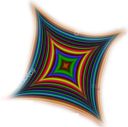
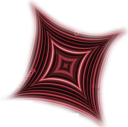
Level 1 & sps works
-added send_char function to SpriteNode
-good classes names in tests
-rhombus is red
-step of SpriteScheduler is now pure side-effects

diff --git a/engine/tests/test_hitbox.py b/engine/tests/test_hitbox.py
@@ -21,14 +21,14 @@ from hypothesis.strategies import integers, lists
 def test_hitbox1():
     T = Transformable()
     R = Rect(-1,-1,2,2)
-    Hb = HitBox(R)
+    Hb = Hitbox(R)
     Hb.link(T)
     T.translate(Vector(2,0))
     assert Hb.get_ctrbl().get_position() == Vector(2,0)
     assert Hb.get_self_poly() == Polygon([Vector(-1,-1),Vector(1,-1),Vector(1,1),Vector(-1,1)])
     assert Hb.get_world_poly() == Polygon([Vector(1,-1),Vector(3,-1),Vector(3,1),Vector(1,1)])
     R = Rect(-1,-1,2,2)
-    Hb = HitBox(R)
+    Hb = Hitbox(R)
     Hb.link(T)
     T.rotate(np.pi/2)
     assert T.get_position() == Vector(2,0)
@@ -44,8 +44,8 @@ def test_hitbox2():
     T2 = Transformable()
     R1 = Rect(-1,-1,2,2)
     R2 = Rect(-1,-1,2,2)
-    Hb1 = HitBox(R1)
-    Hb2 = HitBox(R2)
+    Hb1 = Hitbox(R1)
+    Hb2 = Hitbox(R2)
     Hb1.link(T1)
     Hb2.link(T2)
     T1.translate(Vector(0.5,0.5))
@@ -80,8 +80,8 @@ def test_hitbox3():
         T2 = Transformable()
         R1 = Rect(-1,-1,2,2)
         R2 = Rect(-1,-1,2,2)
-        Hb1 = HitBox(R1)
-        Hb2 = HitBox(R2)
+        Hb1 = Hitbox(R1)
+        Hb2 = Hitbox(R2)
         Hb1.link(T1)
         Hb2.link(T2)
         T2.rotate(np.pi/a)
@@ -99,8 +99,8 @@ def test_hitbox4():
         T2 = Transformable()
         R1 = Rect(-1,-1,2,2)
         R2 = Rect(-1,-1,2,2)
-        Hb1 = HitBox(R1)
-        Hb2 = HitBox(R2)
+        Hb1 = Hitbox(R1)
+        Hb2 = Hitbox(R2)
         Hb1.link(T1)
         Hb2.link(T2)
         T2.rotate(np.pi/a)
@@ -116,8 +116,8 @@ def test_hitbox5():
         T2 = Transformable()
         R1 = Rect(-1,-1,2,2)
         R2 = Rect(-1,-1,2,2)
-        Hb1 = HitBox(R1)
-        Hb2 = HitBox(R2)
+        Hb1 = Hitbox(R1)
+        Hb2 = Hitbox(R2)
         Hb1.link(T1)
         Hb2.link(T2)
         T1.translate(Vector(1,-0.5))

diff --git a/engine/spriteNode.py b/engine/spriteNode.py
@@ -27,6 +27,11 @@ class SpriteNode(Node):
         """ returns the spriteScheduler associated with the spriteNode"""
         return self.__sps
 
+    def send_char(self,char):
+        """ Sends some character of information to the SpriteScheduler """
+        self.__sps.step(char)
+
+
     def set_state(self,state):
         self.__state = state
 
@@ -57,13 +62,15 @@ class SpriteNode(Node):
                 img = pygame.image.load(s).convert_alpha()
             image_dim = Vector(img.get_width(),img.get_height())
             dist = scale.transform_vect(image_dim)
-            img = pygame.transform.smoothscale(img,dist)
+            x,y = dist.to_tuple()
+
+            img = pygame.transform.smoothscale(img,(int(x),int(y)))
             pos = self.get_position()
             #print("-------1",pos,trans)
             pos = pos.apply_transform(scale)
             pos = pos.apply_transform(trans)
             #print("-------2",pos)
-            fen.blit(img,(pos.x ,vpos.y ))
+            fen.blit(img,(pos.x ,pos.y ))
         else:
             pos_vect = self.get_pos_camera(distorsion)
             pygame.draw.polygon(fen,(0,255,0),pos_vect.to_tuples())

diff --git a/game/campaign/levels/kshan/level_1.py b/game/campaign/levels/kshan/level_1.py
@@ -43,7 +43,7 @@ def level_1_kshan(g):
     prh.period = 700//prh.speed
     prh2 = prh.copy()
     prh2.translate(Vector(80,0))
-    print(str("!!!!")+prh2.pt+str("\n\n !!!\n\n"))
+    print(str("!!!!") + prh2.pt + str("\n\n !!!\n\n"))
 
     RH = [prh]
     prh.create_sps("Rhombus")
@@ -58,7 +58,7 @@ def level_1_kshan(g):
     tau.translate(Vector(-1000,200))
 
     tau.create_sps("spike")
-    rec = Rect(-300,-400,largeur,800)
+    rec = Hitbox(Rect(-300,-400,largeur,800))
     pr = SolidPlatform(rec)
     pr.translate(Vector(-200,800))
 
@@ -100,6 +100,7 @@ def level_1_kshan(g):
 
         for pat in RH:
             pat.pattern(t)
+            pat.send_char("a")
 
         #Updating the camera
         x,y = gl.get_camera().get_position().to_tuple()

diff --git a/engine/spriteScheduler.py b/engine/spriteScheduler.py
@@ -40,7 +40,7 @@ class SpriteScheduler:
 		""" does one step of execution of the automaton """
 		try:
 			self.ata.cs = self.ata.tt[self.ata.cs,char]
-			return True
+
 		except TransitionUndefined:
 			print("No transition from state "+str(self.ata.cs)+" with letter "+char+".")
 			raise TransitionUndefined

diff --git a/engine/tests/test_game_level.py b/engine/tests/test_game_level.py
@@ -28,7 +28,7 @@ def test_size_level():
     v3 = Vector(1,1)
     v4 = Vector(-1,1)
     R = Rect(-1,-1,2,2)
-    Hb = HitBox(R)
+    Hb = Hitbox(R)
     plat1 = SolidPlatform(Hb)
     Hb2 = Hb.copy()
     plat2 = SolidPlatform(Hb2)

diff --git a/engine/tests/test_camera.py b/engine/tests/test_camera.py
@@ -70,7 +70,7 @@ def test_pos_in_camera():
     
     S = SpriteNode()
     R = Rect(-1,-1,2,2)
-    Hb = HitBox(R)
+    Hb = Hitbox(R)
     S.set_hit_box(Hb)
     C = Camera()
     C.set_position(Vector(-1,-1))
